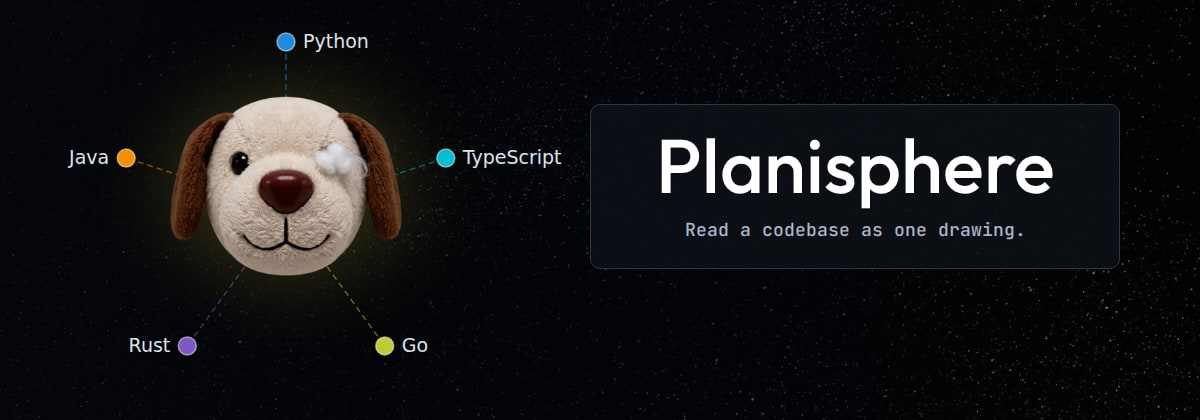
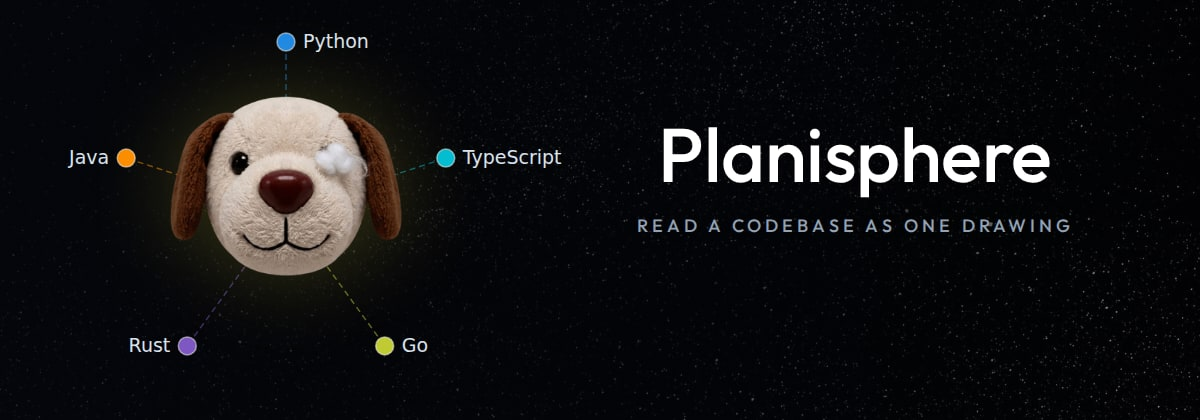
Set the name without a box around it
The panel gave the name a border of its own, and the drawing is the thing with
edges. The name keeps the size and the place the panel had, with the line under
it in the same face as the name rather than the panel's monospace.

The fonts do not ship: a picture of the product is not the product, and a
packaging test now says the only document that ships is the language reference.

Changed region(s): [[0.5242, 0.3095, 0.8942, 0.4952], [0.5242, 0.5262, 0.8942, 0.5881]]

diff --git a/scripts/banner.js b/scripts/banner.js
@@ -2,8 +2,7 @@
 "use strict";
 
 // The README's banner: the mascot with the five languages ringed around it, and
-// the name in the panel the viewer shows when a node is focused, over the star
-// field the viewer draws behind every graph.
+// the name beside it, over the star field the viewer draws behind every graph.
 //
 // The fonts are in docs/fonts, under the Open Font License, so that the banner
 // is the same wherever it is made.
@@ -81,31 +80,33 @@ const html = (starfield, sirius, fonts) => `<!DOCTYPE html>
       }
       .ring { position: absolute; left: 0; top: 0; }
       .mascot { position: absolute; left: 170px; top: 96px; width: 232px; filter: drop-shadow(0 0 46px rgba(255, 235, 59, 0.22)); }
-      /* The panel the viewer shows on a focused node, holding the name instead
-         of a comment. As close to the drawing as its labels allow. */
-      .panel {
+      /* Set where the panel stood, without its box: the drawing is the thing
+         with edges around it. */
+      .words {
         position: absolute;
         left: 590px;
-        top: 104px;
+        top: 116px;
         width: 530px;
-        padding: 22px 26px;
-        box-sizing: border-box;
         text-align: center;
-        background: rgba(13, 17, 23, 0.86);
-        border: 1px solid #2b3648;
-        border-radius: 10px;
       }
-      .title { font-family: "Outfit", sans-serif; font-weight: 700; font-size: 76px; line-height: 1; }
-      .says { margin-top: 12px; font-family: "Panel", monospace; font-size: 18px; line-height: 1.7; color: #aab6c8; }
+      .title { font-family: "Outfit", sans-serif; font-weight: 700; font-size: 76px; line-height: 1; letter-spacing: -0.5px; }
+      .says {
+        margin-top: 22px;
+        font-family: "Outfit", sans-serif;
+        font-size: 18px;
+        letter-spacing: 4px;
+        text-transform: uppercase;
+        color: #93a2b5;
+      }
     </style>
   </head>
   <body>
     <div class="veil"></div>
     ${ring(286, 210, 168)}
     <img class="mascot" src="${sirius}" alt="" />
-    <div class="panel">
+    <div class="words">
       <div class="title">Planisphere</div>
-      <div class="says">Read a codebase as one drawing.</div>
+      <div class="says">Read a codebase as one drawing</div>
     </div>
   </body>
 </html>`;

diff --git a/packaging/tests/packaged.test.js b/packaging/tests/packaged.test.js
@@ -201,6 +201,13 @@ test("only the two dependencies the product runs on ship", () => {
   assert.deepStrictEqual([...dirs].sort(), ["cytoscape", "typescript"], "only these two are the product's");
 });
 
+test("the only document that ships is the language reference", () => {
+  // What is written about the product for a reader of the repository — the
+  // release checklist, the fonts the banner is set in — is not part of it.
+  const docs = shipped().filter((f) => f.startsWith("docs/"));
+  assert.deepStrictEqual(docs, ["docs/languages.md"], `these should not ship: ${docs.join(", ")}`);
+});
+
 test("nothing shipped carries the old name", () => {
   // The product's former name, CodeScout, must not ship: it is taken in the
   // marketplace twice over. What a reader installs is where a leftover of

diff --git a/CONTRIBUTING.md b/CONTRIBUTING.md
@@ -67,10 +67,9 @@ Run it again when the drawing's look changes, and look at the images before
 committing them.
 
 The banner at the top of the README is made from the mascot with the five
-languages ringed around it, and the name in the panel the viewer shows on a
-focused node, laid out in the same headless Chromium. Its two fonts are in
-`docs/fonts/` under the Open Font License, so the banner comes out the same
-wherever it is made:
+languages ringed around it, and the name beside it, laid out in the same
+headless Chromium. Its fonts are in `docs/fonts/` under the Open Font License,
+so the banner comes out the same wherever it is made:
 
 ```bash
 npm run banner                       # writes docs/images/banner.jpg
